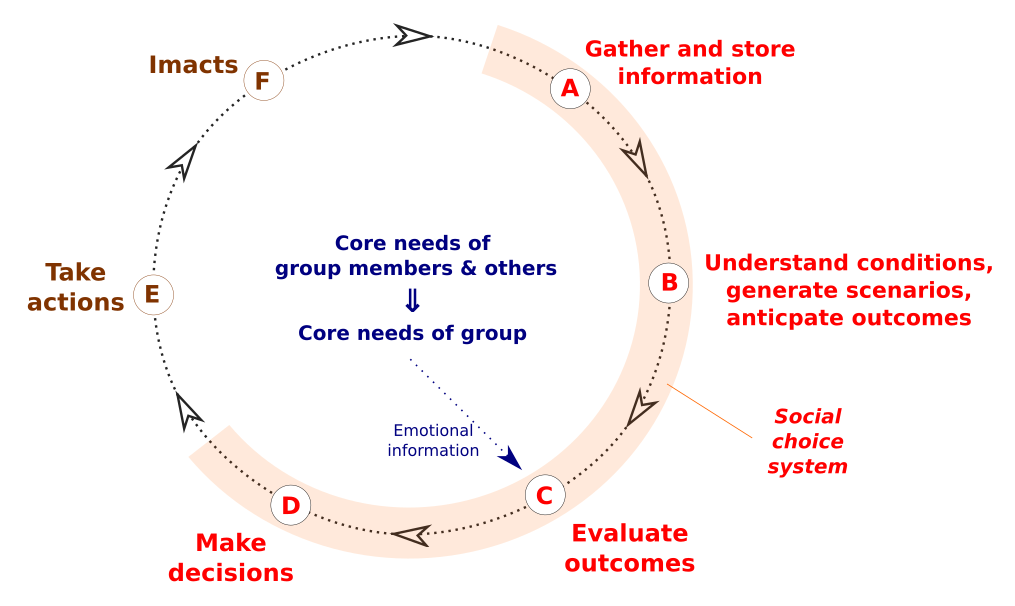
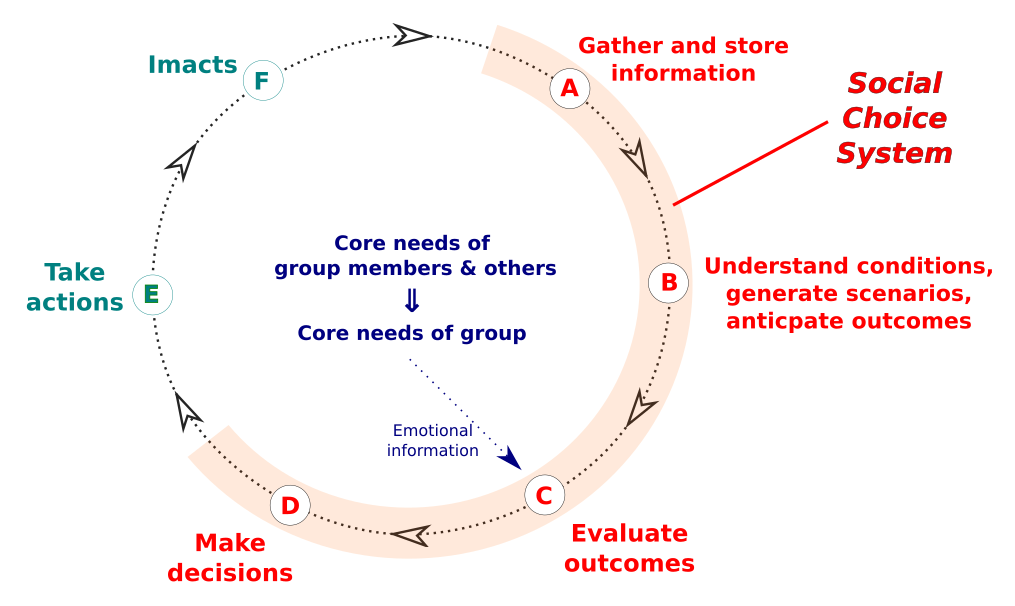
figure 1

diff --git a/leddaApp/templates/index.html b/leddaApp/templates/index.html
@@ -51,7 +51,7 @@
 
   <div class="row">
     <div class="col col-lg-12 col-xl-12 p-sect">
-      <p>Our mission is to empower individuals, organizations, and communities to focus on and solve (or successfully address) <a href="socio_prospectus">problems that matter</a>. One could say we're in the problem-solving, public health and wellbeing, information and computation, decision-making, complex-adaptive-system design business.
+      <p>Our mission is to empower individuals, organizations, and communities to focus on and solve (or successfully address) <a href="socio_prospectus">problems that matter</a>. One could say we're in the problem-solving, public health and wellbeing, computation, decision-making, complex-adaptive-system design business.
       </p> 
 
       <p>What are problems that matter? Communities worldwide face a mix of specific challenges, including:
@@ -92,7 +92,7 @@
       <p>Organizations and individuals face their own kinds of specific challenges, like budget shortfalls and decisions about careers and health. More generally, however, problems that matter are the ones that directly relate to core human needs. 
       </p>
   
-      <p>Figure 1 illustrates a general, idealized group problem-solving process. A group inherits core needs from individual members, as well as from non-members that the group is concerned about. It gathers and stores information (<span style="color:#ff0000ff">A</span>); processes information and predicts outcomes for potential actions (<span style="color:#ff0000ff">B</span>); evaluates predicted outcomes in part using emotional information (<span style="color:#ff0000ff">C</span>); and makes decisions (<span style="color:#ff0000ff">D</span>). A group takes actions (<span style="color:#803300">E</span>) based on decisions, and those actions may impact conditions (<span style="color:#803300">F</span>). Learning occurs as the process cycles. 
+      <p>Figure 1 illustrates a general, idealized group problem-solving process. A group inherits core needs from individual members, as well as from non-members that the group is concerned about. It gathers and stores information (<span style="color:#ff0000ff">A</span>); processes information and predicts outcomes for potential actions (<span style="color:#ff0000ff">B</span>); evaluates predicted outcomes in part using emotional information (<span style="color:#ff0000ff">C</span>); and makes decisions (<span style="color:#ff0000ff">D</span>). A group takes actions (<span style="color:#008080">E</span>) based on decisions, and those actions may impact conditions (<span style="color:#008080">F</span>). Learning occurs as the process cycles. 
       </p>      
 
       <figure class="center">

diff --git a/leddaApp/templates/prospectus.html b/leddaApp/templates/prospectus.html
@@ -75,11 +75,11 @@
           </span>
         </li>  
         <li>
-          <span>Information tools and applications, including survey design and secure data storage and retrieval
+          <span>Information systems and applications, including survey and data repository design
           </span>
         </li>  
         <li>
-          <span>Communication, finance, supply chain, and decision-making tools and applications related to the group problem-solving process
+          <span>Communication, finance, supply chain, and decision-making applications related to the group problem-solving process
           </span>
         </li>  
         <li>
